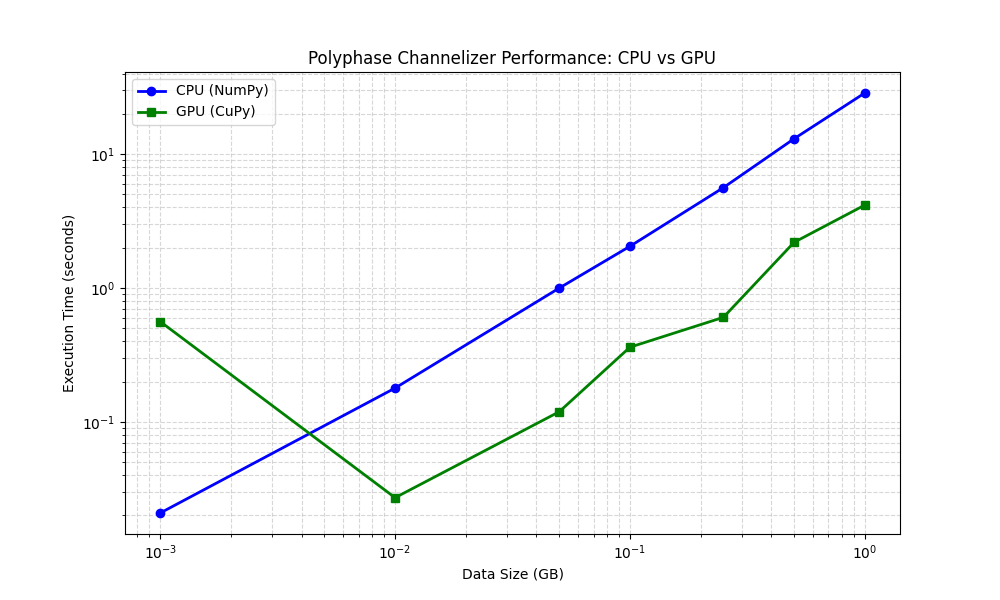
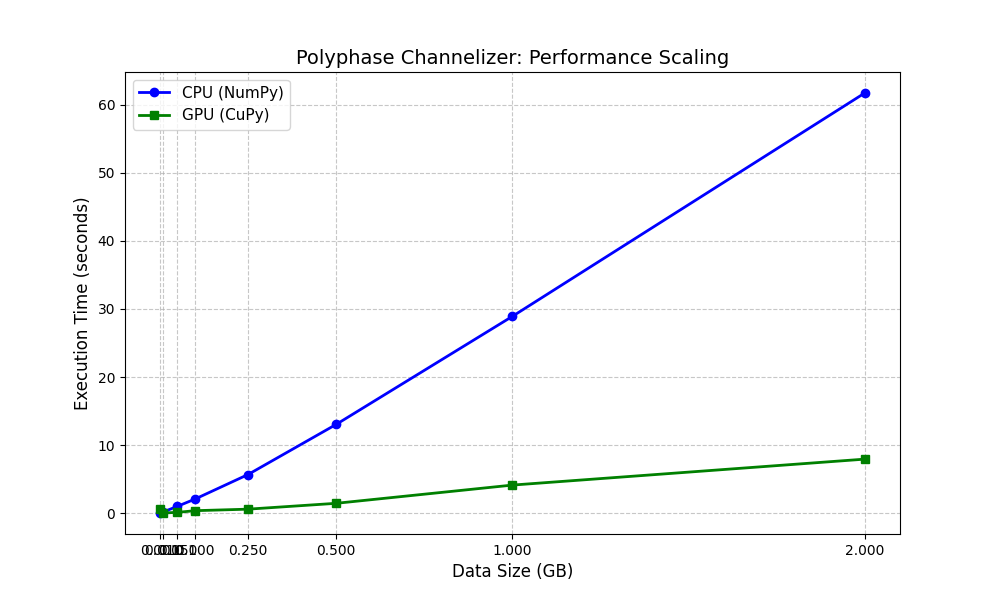
graph

diff --git a/channelizer/channelizer-python/scripts/polyphase_pref.py b/channelizer/channelizer-python/scripts/polyphase_pref.py
@@ -16,7 +16,7 @@ def run_polyphase_benchmark():
     module = config.create_logical_instance()
     module.initialize()
 
-    sizes_gb = [0.001, 0.01, 0.05, 0.1, 0.25, 0.5, 1.0] 
+    sizes_gb = [0.001, 0.01, 0.05, 0.1, 0.25, 0.5, 1.0, 2.0] 
     cpu_times = []
     gpu_times = []
 
@@ -28,14 +28,13 @@ def run_polyphase_benchmark():
         
         # --- CPU Benchmark ---
         start_cpu = time.perf_counter()
-        module.run(data_cpu) # Module detects numpy -> runs on CPU
+        module.run(data_cpu)
         end_cpu = time.perf_counter()
         cpu_duration = end_cpu - start_cpu
         cpu_times.append(cpu_duration)
 
         # --- GPU Benchmark ---
         # included the transfer time to GPU (asarray) as part of the benchmark
-        # because in real life, data often starts in the RAM.
         start_gpu = time.perf_counter()
         data_gpu = cp.asarray(data_cpu) # Move to VRAM
         res_gpu = module.run(data_gpu)  # Run on GPU
@@ -47,18 +46,17 @@ def run_polyphase_benchmark():
         
         print(f"Size: {size:>5} GB | CPU: {cpu_duration:.4f}s | GPU: {gpu_duration:.4f}s")
 
-    # 3. Plotting
     plt.figure(figsize=(10, 6), facecolor='w')
     plt.plot(sizes_gb, cpu_times, 'o-', color='blue', linewidth=2, label='CPU (NumPy)')
     plt.plot(sizes_gb, gpu_times, 's-', color='green', linewidth=2, label='GPU (CuPy)')
     
-    plt.xscale('log') # Use log scale if sizes vary significantly
-    plt.yscale('log')
-    plt.xlabel('Data Size (GB)')
-    plt.ylabel('Execution Time (seconds)')
-    plt.title('Polyphase Channelizer Performance: CPU vs GPU')
-    plt.grid(True, which="both", linestyle='--', alpha=0.5)
-    plt.legend()
+    plt.xlabel('Data Size (GB)', fontsize=12)
+    plt.ylabel('Execution Time (seconds)', fontsize=12)
+    plt.title('Polyphase Channelizer: Performance Scaling', fontsize=14)
+    plt.grid(True, which="major", linestyle='--', alpha=0.7)
+    plt.xticks(sizes_gb)
+    
+    plt.legend(fontsize=11)
     
     output_filename = "polyphase_performance_comparison.png"
     plt.savefig(output_filename)

diff --git a/channelizer/channelizer-python/logic/computes/polyphase.py b/channelizer/channelizer-python/logic/computes/polyphase.py
@@ -20,12 +20,10 @@ class PolyphaseChannelizer(BaseClass):
     def initialize(self):
         self.xp = np
         self.num_channels = int(self.config.fs_hz / self.config.channel_bw_hz) # M
-        
-        # Load filter from binary file (Float32)
+ 
         filter_raw = np.fromfile(self.config.filter_path, dtype='<f4')
         filter_channel_len = len(filter_raw) // self.num_channels
     
-        # Reshape to (M, L) where M is channels and L is taps per branch
         self.polyphase_filters = filter_raw[:self.num_channels * filter_channel_len].reshape(
             self.num_channels, filter_channel_len, order='F'
         ).astype(np.complex64)        
@@ -37,7 +35,6 @@ class PolyphaseChannelizer(BaseClass):
         :return: A matrix of the data reshaped and after polyphase filtering
         """
         itemsize = data.itemsize
-        # 1. Commutator: Branch decomposition
         if self.config.decimation_factor ==  self.num_channels:
             num_blocks = len(data) //  self.num_channels
             reshaped = data[:num_blocks *  self.num_channels].reshape(num_blocks, self.num_channels).T
